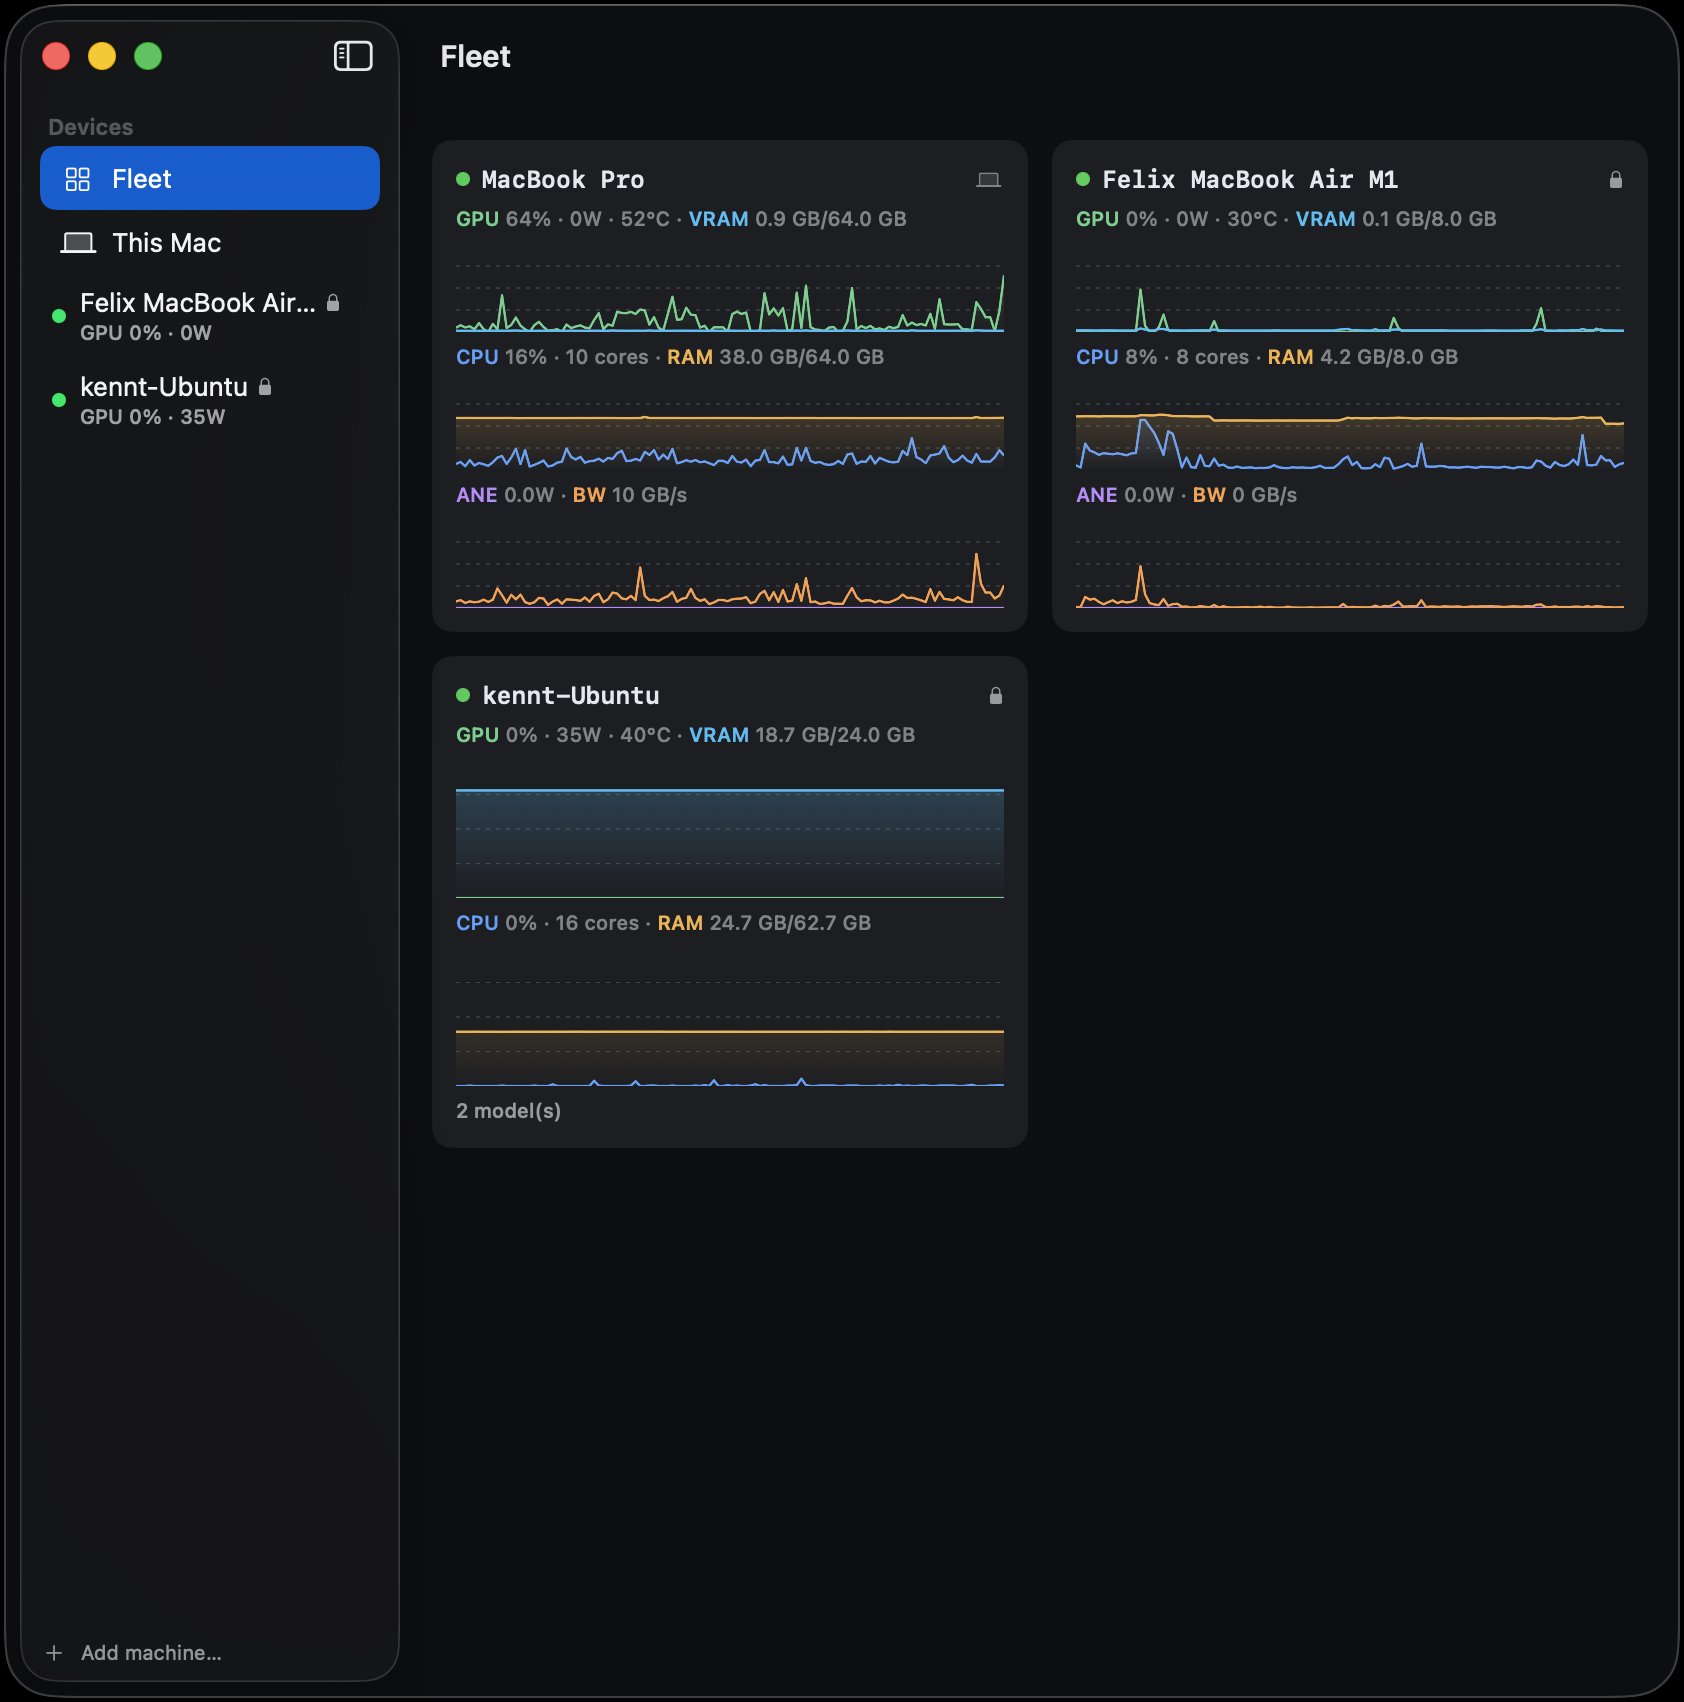
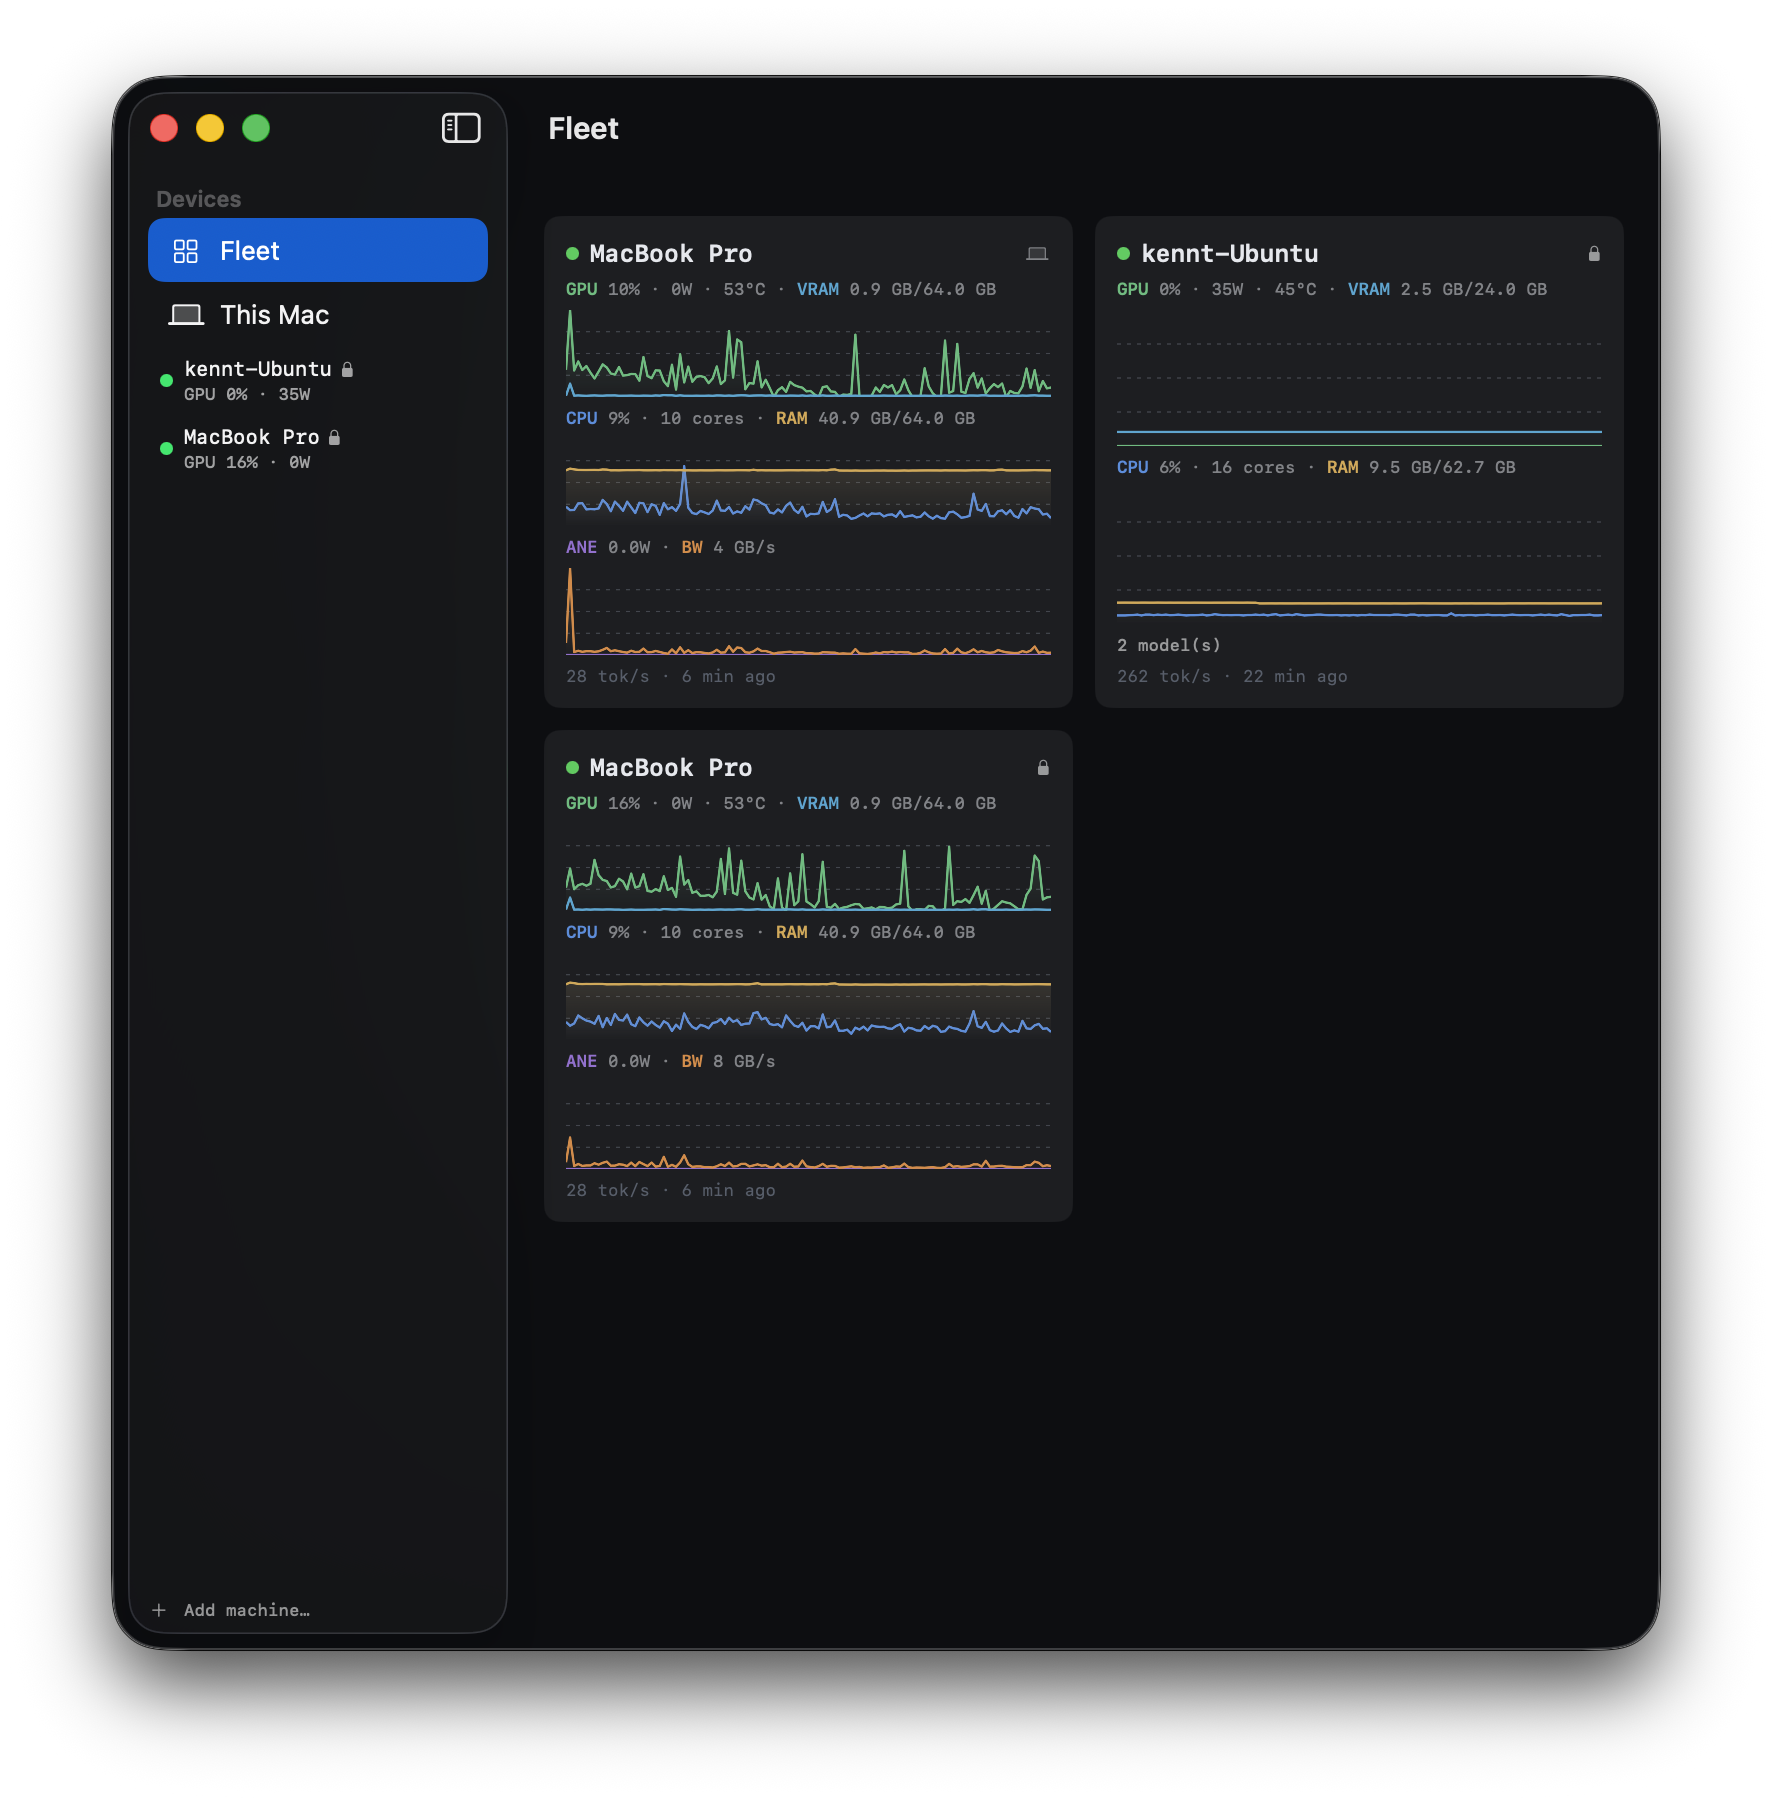
docs: the Fleet screenshot now shows what Fleet does
The old shot predates the decode rate, and its caption narrated numbers that are
no longer on screen — "64% GPU / 10 GB/s", "the Air is idle", "18.7 GB of VRAM".
A caption describing an image that is not there is worse than no caption, so
both were replaced together, in all six languages.

The new one is the same view doing the thing 4.1.3 added: three machines, each
tile ending in the rate its runtime measured and how old that reading is — the
Ubuntu box at 262 tok/s, both Macs at 28.

diff --git a/README.de.md b/README.de.md
@@ -60,11 +60,12 @@ IP-Konfiguration nötig.
 
 ![Die Fleet-Übersicht — alle Rechner auf einem Bildschirm](docs/img/fleet-overview.png)
 
-*Drei Rechner auf einen Blick. Jede Kachel legt **GPU + VRAM** und **CPU + RAM** auf dieselbe Achse,
-auf Apple Silicon kommen **ANE + Speicherbandbreite** dazu — das Metrik-Wort ist in der Farbe seiner
-Linie eingefärbt, eine Legende erübrigt sich. Hier liegt das MacBook Pro bei **64 % GPU / 10 GB/s**,
-das Air ist im Leerlauf, und die Ubuntu-Kiste hält **18,7 GB VRAM** mit zwei geladenen
-Ollama-Modellen. This Mac ist immer die erste Kachel.*
+*Drei Maschinen auf einen Blick. Jede Kachel legt **GPU + VRAM** und **CPU + RAM** auf eine
+gemeinsame Achse, auf Apple Silicon zusätzlich **ANE + Speicherbandbreite** — das eingefärbte
+Metrik-Wort entspricht seiner Linie, eine Legende erübrigt sich. Die unterste Zeile einer
+Kachel ist die **von der Runtime gemessene Generierungsrate** samt ihrem Alter: die
+Ubuntu-Maschine erreichte **262 tok/s**, beide Macs **28 tok/s**. Ein Wert wird blass, sobald
+er die Gegenwart nicht mehr beschreibt. This Mac ist immer die erste Kachel.*
 
 - **Ein ferner Mac wird in genau dem Dashboard gezeichnet, das auch lokal läuft** — E-/P-Kerne, GPU,
   **ANE**, Media, Speicherbandbreite, Leistung, Lüfter. Soweit ich weiß, zeigt kein anderes Werkzeug

diff --git a/README.md b/README.md
@@ -56,10 +56,11 @@ Machines on your LAN are discovered automatically (mDNS) — no IP configuration
 
 ![The Fleet overview — every machine on one screen](docs/img/fleet-overview.png)
 
-*Three machines at a glance. Each tile pairs **GPU + VRAM** and **CPU + RAM** on one axis, plus
-**ANE + memory bandwidth** on Apple Silicon — the tinted metric word matches its line, so no legend
-is needed. Here the MacBook Pro is at **64% GPU / 10 GB/s**, the Air is idle, and the Ubuntu box is
-holding **18.7 GB of VRAM** with 2 Ollama models resident. This Mac is always the first tile.*
+*Three machines at a glance. Each tile pairs **GPU + VRAM** and **CPU + RAM** on one axis,
+plus **ANE + memory bandwidth** on Apple Silicon — the tinted metric word matches its line, so
+no legend is needed. The bottom line of a tile is the **decode rate its runtime measured**,
+with how long ago: the Ubuntu box reached **262 tok/s**, both Macs **28 tok/s**. A rate dims
+once it stops describing the present. This Mac is always the first tile.*
 
 - **A remote Mac renders in the exact dashboard the local one uses** — E/P cores, GPU,
   **ANE**, Media, memory bandwidth, power, fans. As far as I know, no other tool shows a

diff --git a/README.zh-TW.md b/README.zh-TW.md
@@ -56,10 +56,10 @@
 
 ![Fleet 總覽 —— 所有機器在一個畫面裡](docs/img/fleet-overview.png)
 
-*三台機器一目了然。每張圖磚把 **GPU + VRAM** 與 **CPU + RAM** 疊在同一個座標軸上，Apple Silicon 還會
-再加上 **ANE + 記憶體頻寬**；指標名稱依線條顏色上色，所以不需要圖例。圖中 MacBook Pro 位於
-**GPU 64% / 10 GB/s**，Air 閒置，Ubuntu 主機佔著 **18.7 GB 顯示記憶體**，並常駐兩個 Ollama 模型。
-This Mac 永遠是第一張圖磚。*
+*三台機器一目了然。每塊圖磚把 **GPU + VRAM** 與 **CPU + RAM** 疊在同一座標軸上，Apple Silicon
+還加上 **ANE + 記憶體頻寬** —— 指標名以自己曲線的顏色著色，因此不需要圖例。
+圖磚最下面一行是**執行環境實測的生成速度**以及它是多久之前的值：Ubuntu 機器 **262 tok/s**，
+兩台 Mac 皆為 **28 tok/s**。當數值不再描述當下時會變暗。This Mac 永遠是第一塊圖磚。*
 
 - **遠端 Mac 會用與本機完全相同的儀表板繪製** —— E/P 核心、GPU、**ANE**、Media、記憶體頻寬、功耗、
   風扇。就我所知，沒有其他工具能顯示**遠端 Mac 的 Neural Engine**。

diff --git a/README.zh-CN.md b/README.zh-CN.md
@@ -56,10 +56,10 @@
 
 ![Fleet 总览 —— 所有机器在一屏之内](docs/img/fleet-overview.png)
 
-*三台机器一目了然。每块磁贴把 **GPU + VRAM** 与 **CPU + RAM** 叠在同一坐标轴上，Apple Silicon 还会
-多出 **ANE + 内存带宽**；指标名按线条颜色着色，因此不需要图例。图中 MacBook Pro 处于
-**GPU 64% / 10 GB/s**，Air 空闲，Ubuntu 主机占着 **18.7 GB 显存** 并常驻两个 Ollama 模型。
-This Mac 永远是第一块磁贴。*
+*三台机器一目了然。每块磁贴把 **GPU + VRAM** 与 **CPU + RAM** 叠在同一坐标轴上，Apple Silicon
+还加上 **ANE + 内存带宽** —— 指标名用自己曲线的颜色着色，因此不需要图例。
+磁贴最下面一行是**运行时实测的生成速度**以及它是多久之前的值：Ubuntu 机器 **262 tok/s**，
+两台 Mac 均为 **28 tok/s**。当数值不再描述当下时会变暗。This Mac 永远是第一块磁贴。*
 
 - **远程 Mac 使用与本机完全相同的仪表盘渲染** —— E/P 核、GPU、**ANE**、Media、内存带宽、功耗、
   风扇。据我所知，没有别的工具能显示**远程 Mac 的 Neural Engine**。
